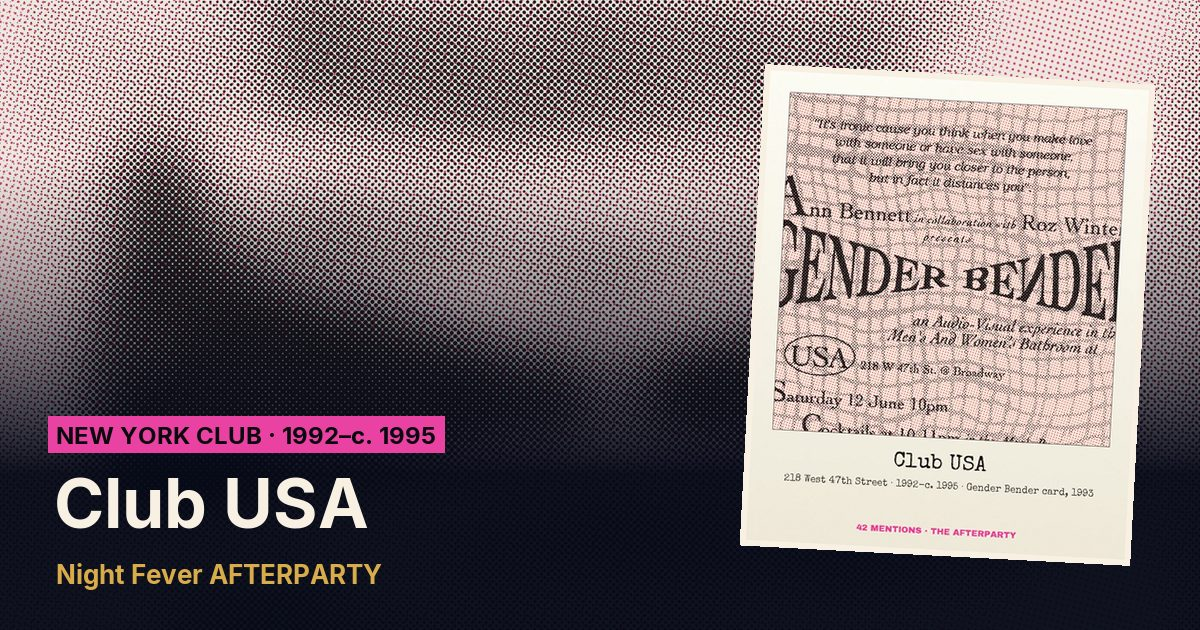
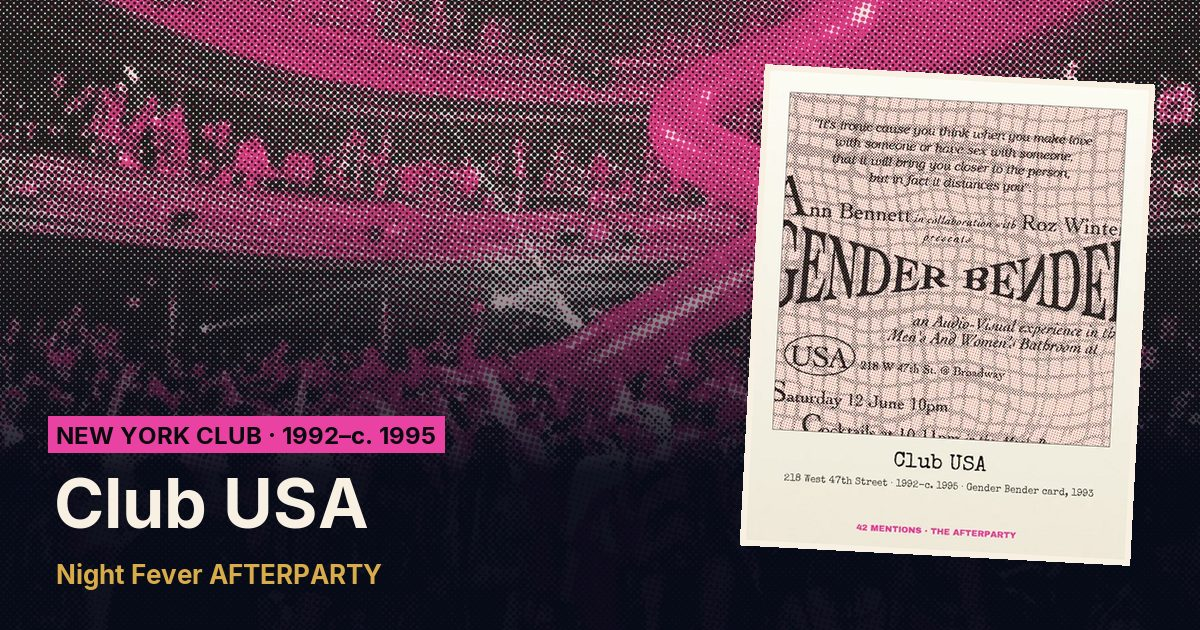
Club USA page: new header - a Club USA night with its slide, drawn for the AFTERPARTY, replaces the blurred card (Lisa: publish, 18 Nov 2026)

diff --git a/src/data/club-profiles.ts b/src/data/club-profiles.ts
@@ -113,7 +113,7 @@ const BOY_BAR_CREDIT = "Header: a Boy Bar night drawn for the AFTERPARTY. Polaro
 const CLUB_57_CREDIT = "Photo: Americasroof, 57 St. Mark's Place in 2009, via Wikimedia Commons, CC BY 3.0. Polaroid: Swingin' Singles Party card with John Sex and Wendy Wild, Club 57, 1982 - Gallery 98";
 const NELLS_CREDIT = "Header: a Nell's night drawn for the AFTERPARTY. Polaroid: the black key Nell's mailed to its regulars, drawn for the AFTERPARTY";
 const PARADISE_GARAGE_CREDIT = "Header: a Paradise Garage night drawn for the AFTERPARTY. Polaroid: Vito and Roman's car stub invitation, Paradise Garage, 1984 - Gallery 98";
-const CLUB_USA_CREDIT = "Header and polaroid: Ann Bennett and Roz Winter's Gender Bender card, Club USA, 1993 (blurred in the header) - Gallery 98";
+const CLUB_USA_CREDIT = "Header: a Club USA night with its slide, drawn for the AFTERPARTY. Polaroid: Ann Bennett and Roz Winter's Gender Bender card, Club USA, 1993 - Gallery 98";
 const ROXY_CREDIT = "Photo: Aloughman, the Roxy on West 18th Street, via Wikimedia Commons, public domain. Polaroid: Susanne Bartsch's New Year's Eve 2000 Fake Halloween Ball flyer, Roxy - Gallery 98";
 
 const WORLD_CREDIT = "Photo: a card for Oh Jackie Oh! at the World, with Jackie Curtis and Taylor Mead - Gallery 98. Polaroid: Haoui Montaug's No Entiendes sixth anniversary flyer, the World - Gallery 98";
@@ -577,7 +577,7 @@ export const CLUB_PROFILES: Record<string, ClubProfile> = {
       { episode: "s01e04", who: "Peter Gatien", time: "00:55:56", quote: "Just totally sweaty people having the best times of their life." },
       { episode: "s01e06", who: "Waltpaper", time: "00:48:52", quote: "I remember doing an interview for the pre-opening of Club USA. I think it was 60 Minutes. And we were all gathered in the stairwell." },
     ],
-    portrait: { photo: clubUsaPhoto, phone: clubUsaPhotoPhone, polaroid: clubUsaPolaroid, focus: "30%", credit: CLUB_USA_CREDIT },
+    portrait: { photo: clubUsaPhoto, phone: clubUsaPhotoPhone, polaroid: clubUsaPolaroid, focus: "50%", credit: CLUB_USA_CREDIT },
     timelineEvent: "club-usa",
   },
   roxy: {
